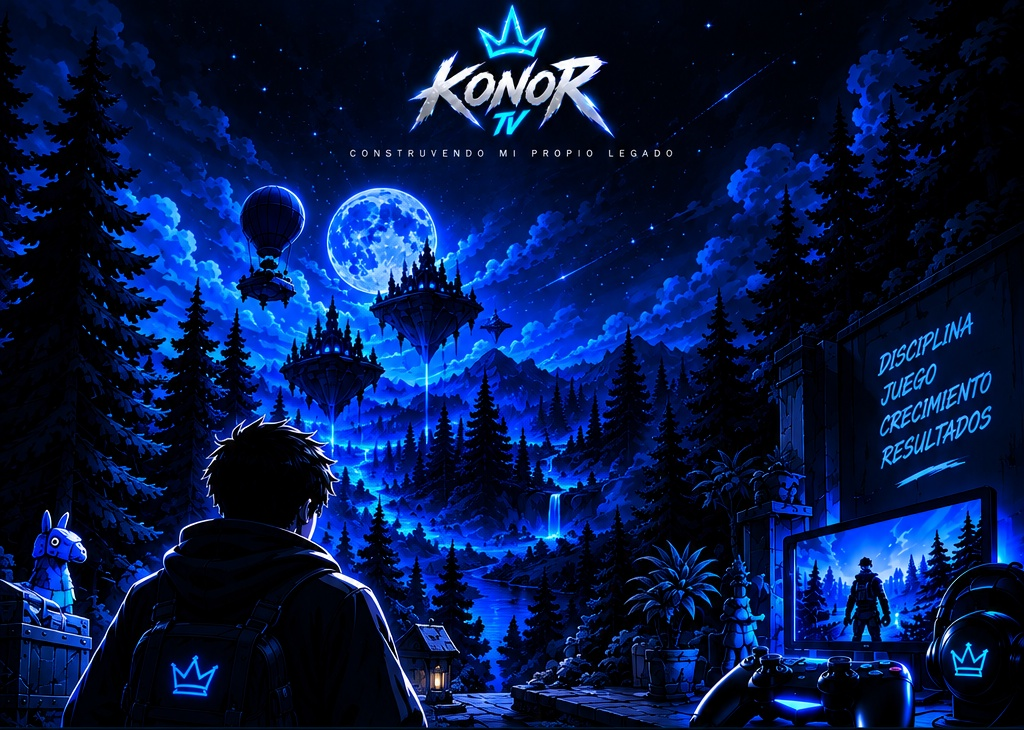
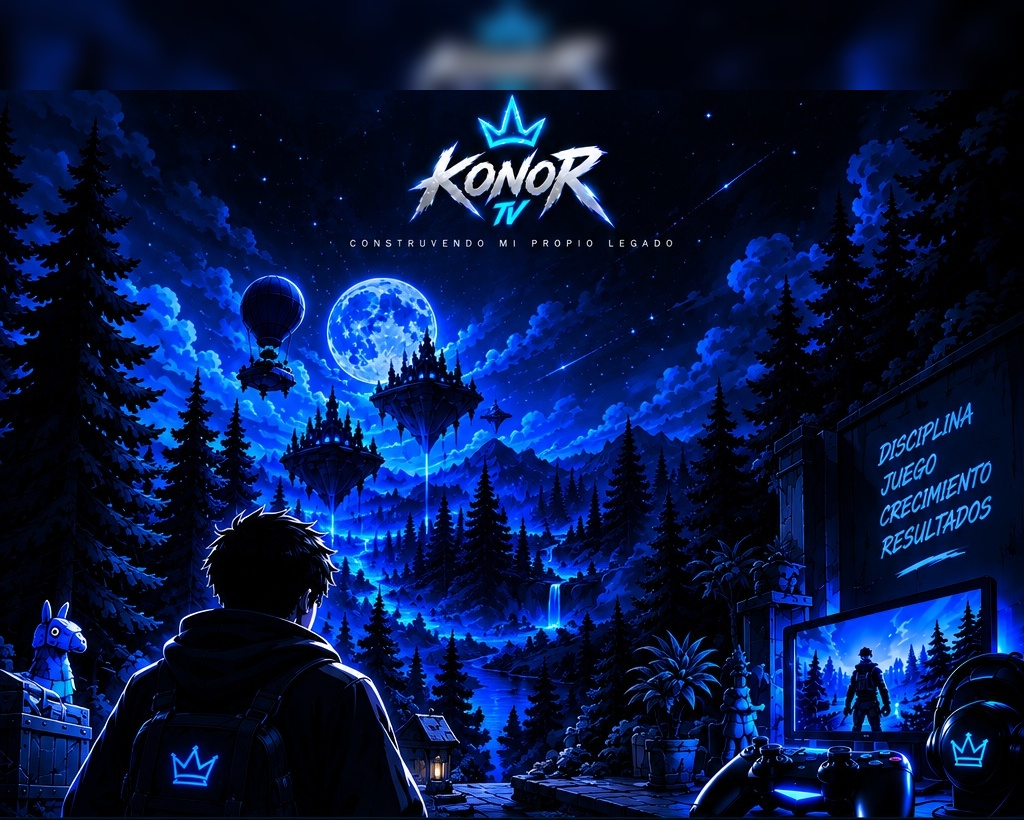
Add files via upload

diff --git a/style.css b/style.css
@@ -119,12 +119,22 @@ footer small{
 }
 
 @media(max-width:600px){
-  .hero{height:205px}
-  .hero img{object-position:center 18%}
+  .hero{
+    height:auto;
+    overflow:visible;
+    background:#010711;
+  }
+  .hero img{
+    display:block;
+    width:100%;
+    height:auto;
+    object-fit:contain;
+    object-position:center top;
+  }
   .socials{
     grid-template-columns:repeat(2,1fr);
     gap:8px;
-    padding:12px 8px 10px;
+    padding:10px 8px 10px;
   }
   .social{height:68px;gap:9px}
   .platform-icon{width:36px;height:36px;font-size:20px}
@@ -147,9 +157,4 @@ footer{margin-top:4px}
   transform:none;
   box-shadow:0 0 14px #009dff44,inset 0 0 16px #008cff0d;
   border-color:#079be9;
-}
-
-@media(max-width:430px){
-  .hero{height:190px}
-  .hero img{object-position:center 14%}
 }
